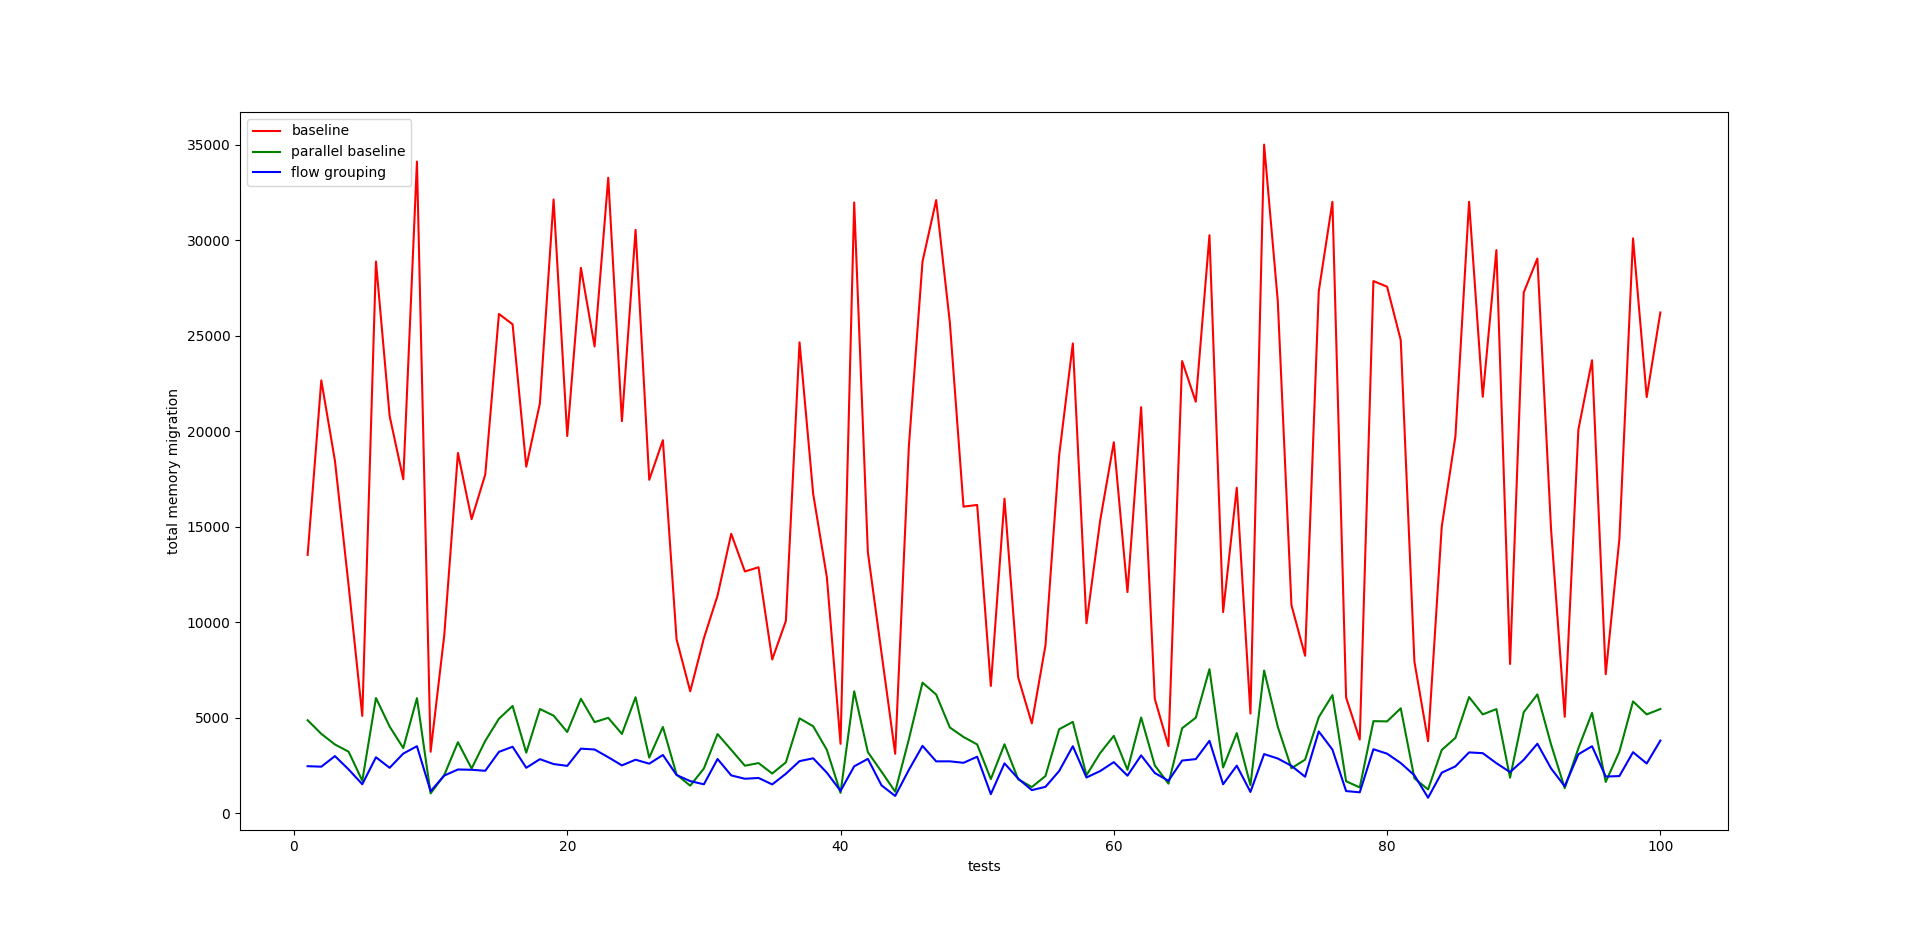
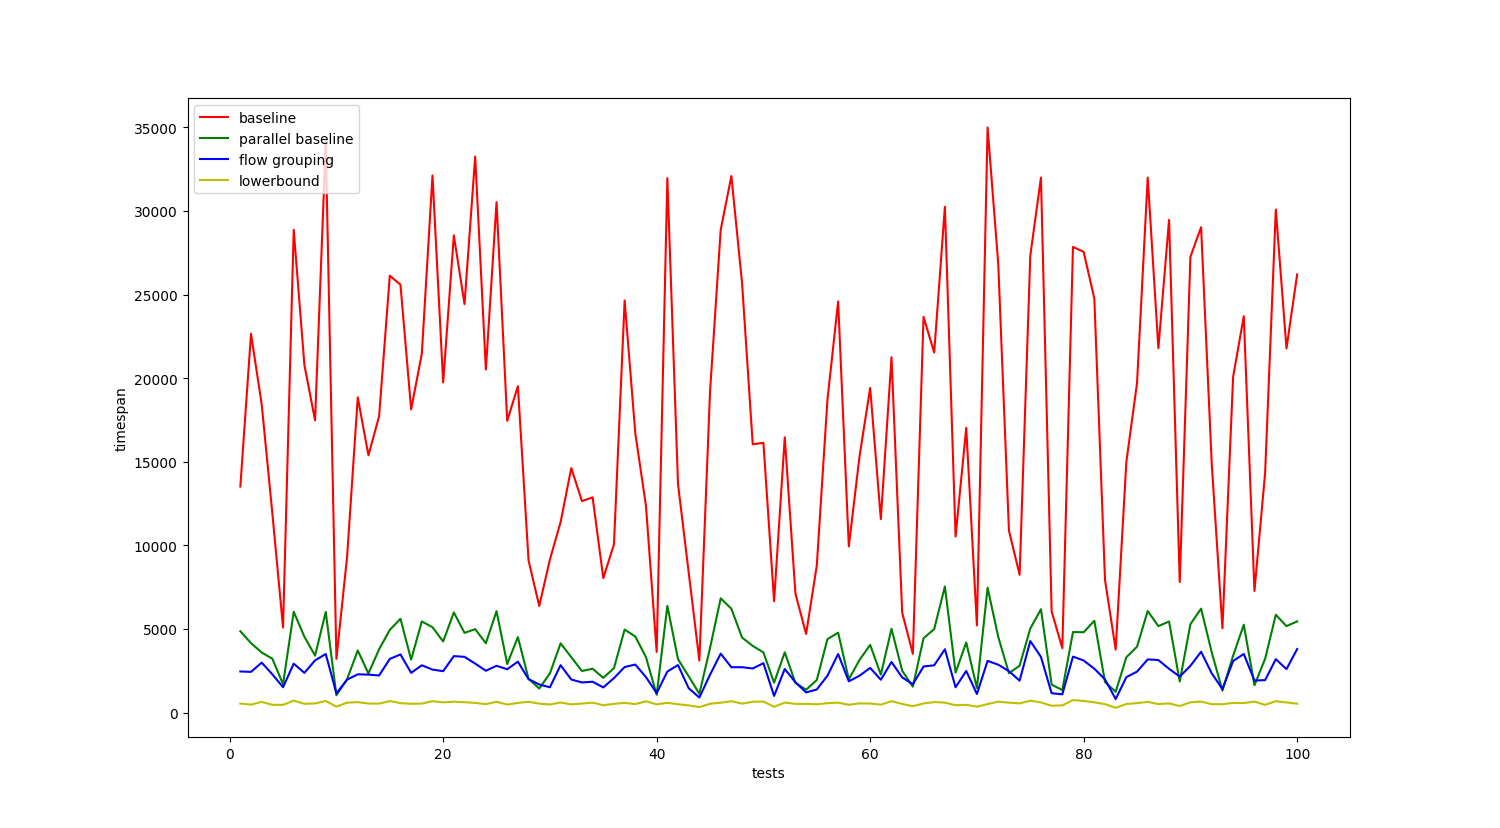
Added lowerbounds

diff --git a/algorithms_lib/lowerbound.cpp b/algorithms_lib/lowerbound.cpp
@@ -1,0 +1,49 @@
+#include "algorithms.h"
+
+namespace AlgoLowerBound {
+
+long double CountTimespanLowerBound(const Problem& problem) {
+	long double res = 0;
+
+	std::vector<std::vector<VM>> moving_in_vms(problem.server_specs.size());
+	std::vector<std::vector<VM>> moving_out_vms(problem.server_specs.size());
+
+	for (const VM& vm : problem.vms) {
+		if (problem.end_position.vm_server[vm.id] 
+			!= problem.start_position.vm_server[vm.id]) {
+			moving_in_vms[problem.end_position.vm_server[vm.id]].push_back(vm);
+			moving_out_vms[problem.start_position.vm_server[vm.id]].push_back(vm);
+		}
+	}
+
+	auto sort_by_migration_time = [](const VM& lhs, const VM& rhs) -> bool {
+		return lhs.migration_time >= rhs.migration_time;
+	};
+
+	auto count_lowerbound = [](const std::vector<VM>& vms, size_t round_capacity) -> long double {
+		long double timespan_lowerbound = 0;
+		for (size_t j = 0; j < vms.size(); ++j) {
+			if (j % round_capacity + 1 == round_capacity
+				|| j + 1 == vms.size()) {
+				timespan_lowerbound += vms[j].migration_time;
+			}
+		}
+		return timespan_lowerbound;
+	};
+
+	for (size_t i = 0; i < moving_in_vms.size(); ++i) {
+		std::vector<VM>& vms = moving_in_vms[i];
+		std::sort(vms.begin(), vms.end(), sort_by_migration_time);
+		res = std::max(res, count_lowerbound(vms, problem.server_specs[i].max_in));
+	}
+
+	for (size_t i = 0; i < moving_out_vms.size(); ++i) {
+		std::vector<VM>& vms = moving_out_vms[i];
+		std::sort(vms.begin(), vms.end(), sort_by_migration_time);
+		res = std::max(res, count_lowerbound(vms, problem.server_specs[i].max_out));
+	}
+
+	return res;
+}
+
+}

diff --git a/benchmarks/count_lowerbound.cpp b/benchmarks/count_lowerbound.cpp
@@ -1,0 +1,28 @@
+#include <iostream>
+
+#include <glog/logging.h>
+
+#include "../algorithms_lib/algorithms.h"
+#include "../testenv_lib/test_environment.h"
+
+int main(int argc, const char* argv[]) {
+	FLAGS_logtostderr = true;
+    google::InitGoogleLogging(argv[0]);
+    google::InstallFailureSignalHandler();
+
+    if (argc < 3) {
+    	std::cout << "USAGE: ./count_lowerbound <proto_test_chunk_path> <result_path>\n";
+    	return 1;
+    }
+    
+    DataSet::DataSet dataset = LoadTests(argv[1]);
+    std::ofstream fout(argv[2], std::ios::out | std::ios::trunc);
+
+    for (size_t i = 0; i < dataset.tests_size(); ++i) {
+        Problem problem = ConvertTestCaseToProblem(dataset.tests(i));
+        long double lowerbound = AlgoLowerBound::CountTimespanLowerBound(problem);
+        fout << lowerbound << "\n";
+    }
+
+	return 0;
+}

diff --git a/measurements/avg_hist.py b/measurements/avg_hist.py
@@ -1,0 +1,20 @@
+import matplotlib.pyplot as plt
+import common
+
+def get_avg(ys):
+	return sum(ys) / len(ys)
+
+xs, ys_baseline = common.get_graphic_for_metrics('baseline_metrics.json')
+xs, ys_parallel_baseline = common.get_graphic_for_metrics('parallel_baseline_metrics.json')
+xs, ys_flow_grouping = common.get_graphic_for_metrics('parallel_flow_grouping.json')
+xs, ys_lowerbounds = common.get_graphic_for_lowerbounds('lowerbounds.txt')
+
+avg_baseline = get_avg(ys_baseline)
+avg_parallel_baseline = get_avg(ys_parallel_baseline)
+avg_flow_grouping = get_avg(ys_flow_grouping)
+
+
+algo_names = ["baseline", "parallel_baseline", "flow_grouping"]
+ys = [avg_baseline, avg_parallel_baseline, avg_flow_grouping]
+plt.bar(x=algo_names, height=ys, color=['r', 'g', 'b'])
+plt.show()

diff --git a/measurements/show_metrics.py b/measurements/show_metrics.py
@@ -1,0 +1,18 @@
+import matplotlib.pyplot as plt
+import common
+
+xs, ys_baseline = common.get_graphic_for_metrics('baseline_metrics.json')
+xs, ys_parallel_baseline = common.get_graphic_for_metrics('parallel_baseline_metrics.json')
+xs, ys_flow_grouping = common.get_graphic_for_metrics('parallel_flow_grouping.json')
+xs, ys_lowerbounds = common.get_graphic_for_lowerbounds('lowerbounds.txt')
+
+plt.plot(xs, ys_baseline, color='r', label='baseline')
+plt.plot(xs, ys_parallel_baseline, color='g', label='parallel baseline')
+plt.plot(xs, ys_flow_grouping, color='b', label='flow grouping')
+plt.plot(xs, ys_lowerbounds, color='y', label='lowerbound')
+
+plt.ylabel('timespan')
+plt.xlabel('tests')
+
+plt.legend(loc='upper left')
+plt.show()

diff --git a/measurements/common.py b/measurements/common.py
@@ -1,0 +1,25 @@
+import json
+
+def get_graphic_for_metrics(filename):
+	with open(filename) as metric_json:
+		metrics = json.load(metric_json)
+
+	xs = list(range(1, 101))
+	ys = []
+
+	for measurement in metrics['metrics']:
+		metric_id = 1
+		for metric in measurement['measurements']:
+			metric_id -= 1
+			if metric_id == 0:
+				ys.append(metric['value'])
+				break
+
+	return xs, ys
+
+
+def get_graphic_for_lowerbounds(filename):
+	with open(filename) as bounds:
+		ys = [float(y) for y in bounds.read().split()]
+
+	return list(range(1, 101)), ys

diff --git a/testenv_lib/test_environment.h b/testenv_lib/test_environment.h
@@ -52,7 +52,7 @@ public:
 	}
 
 	template<class Algorithm>
-	Metrics::MetricsSet RunTestsFromDataSet(DataSet::DataSet dataset, Algorithm solver) {
+	Metrics::MetricsSet RunTestsFromDataSet(const DataSet::DataSet& dataset, Algorithm solver) {
 		size_t solved_cases = 0;
 		Metrics::MetricsSet measurements;
 

diff --git a/algorithms_lib/algorithms.h b/algorithms_lib/algorithms.h
@@ -19,3 +19,7 @@ namespace AlgoParallelBaseline {
 namespace AlgoFlowGrouping {
 	std::optional<Solution> Solve(const Problem& problem);
 }
+
+namespace AlgoLowerBound {
+	long double CountTimespanLowerBound(const Problem& problem);
+}
